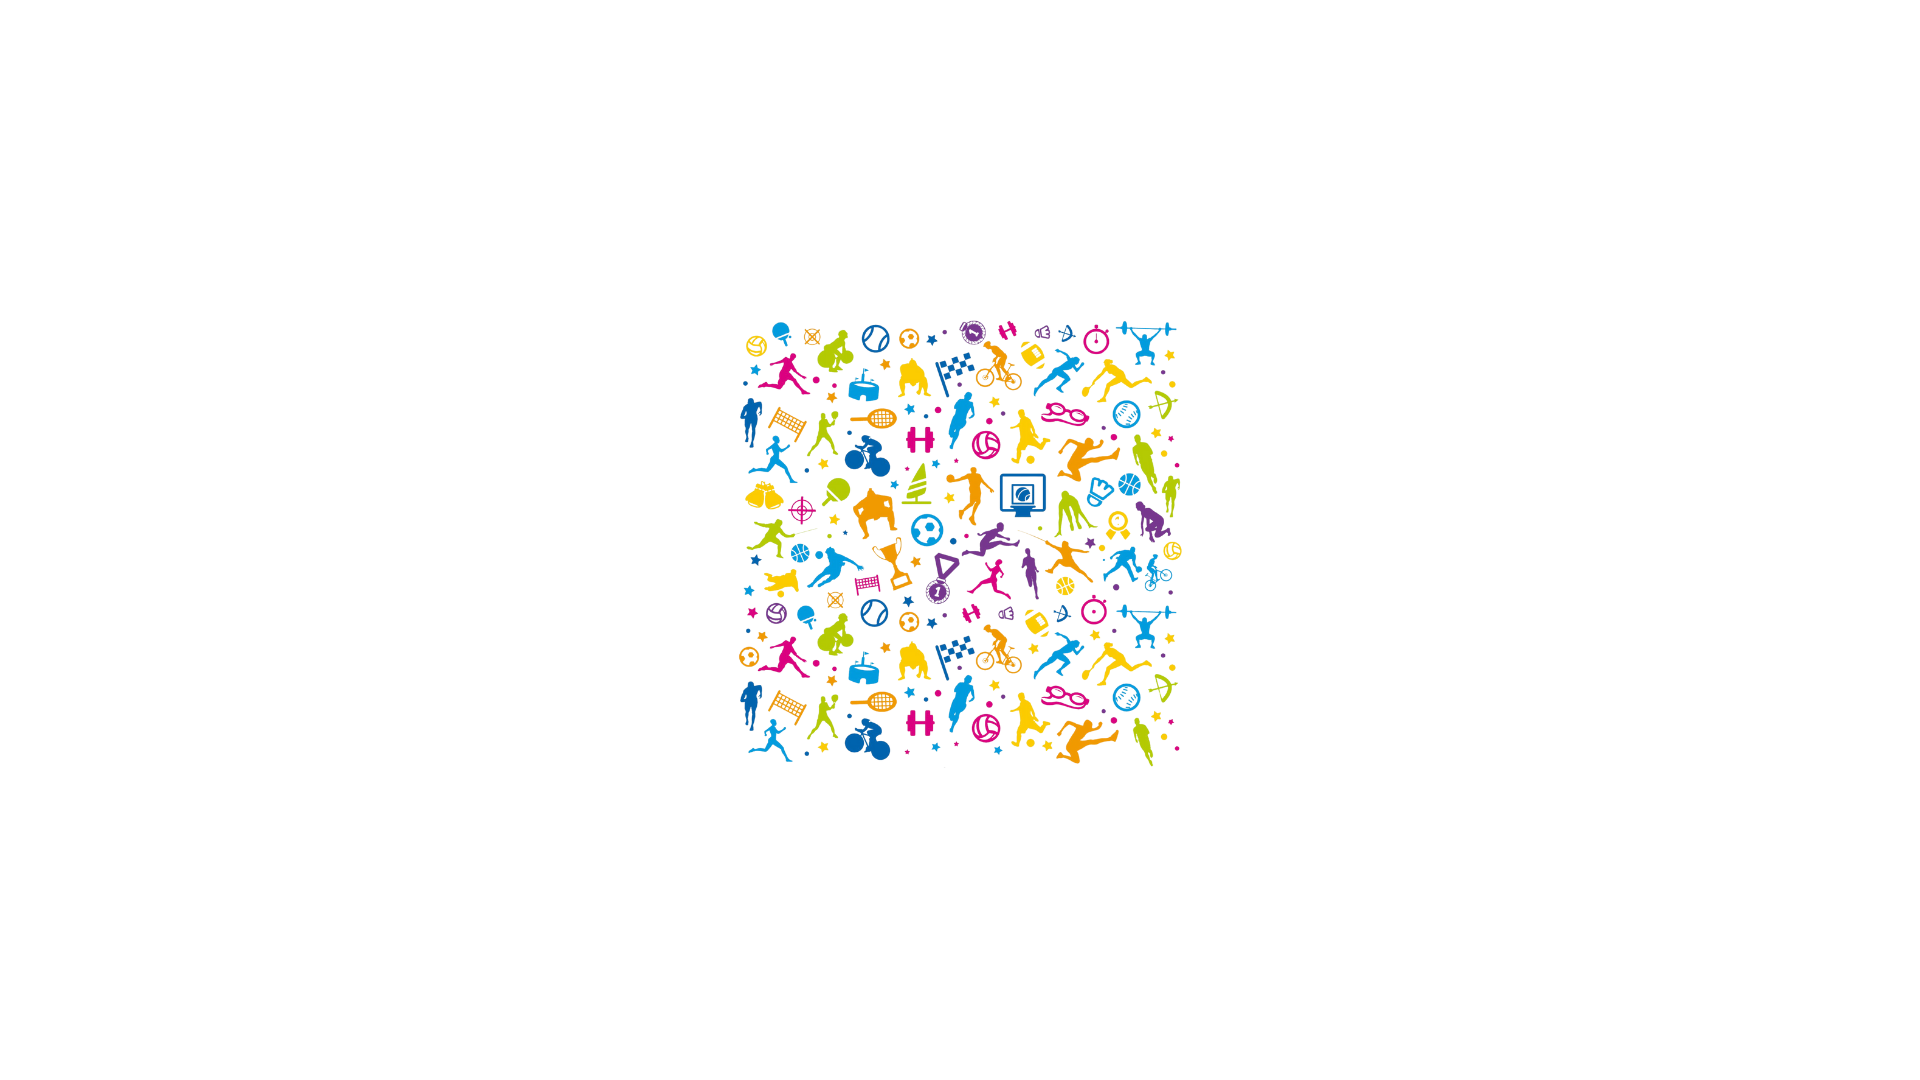
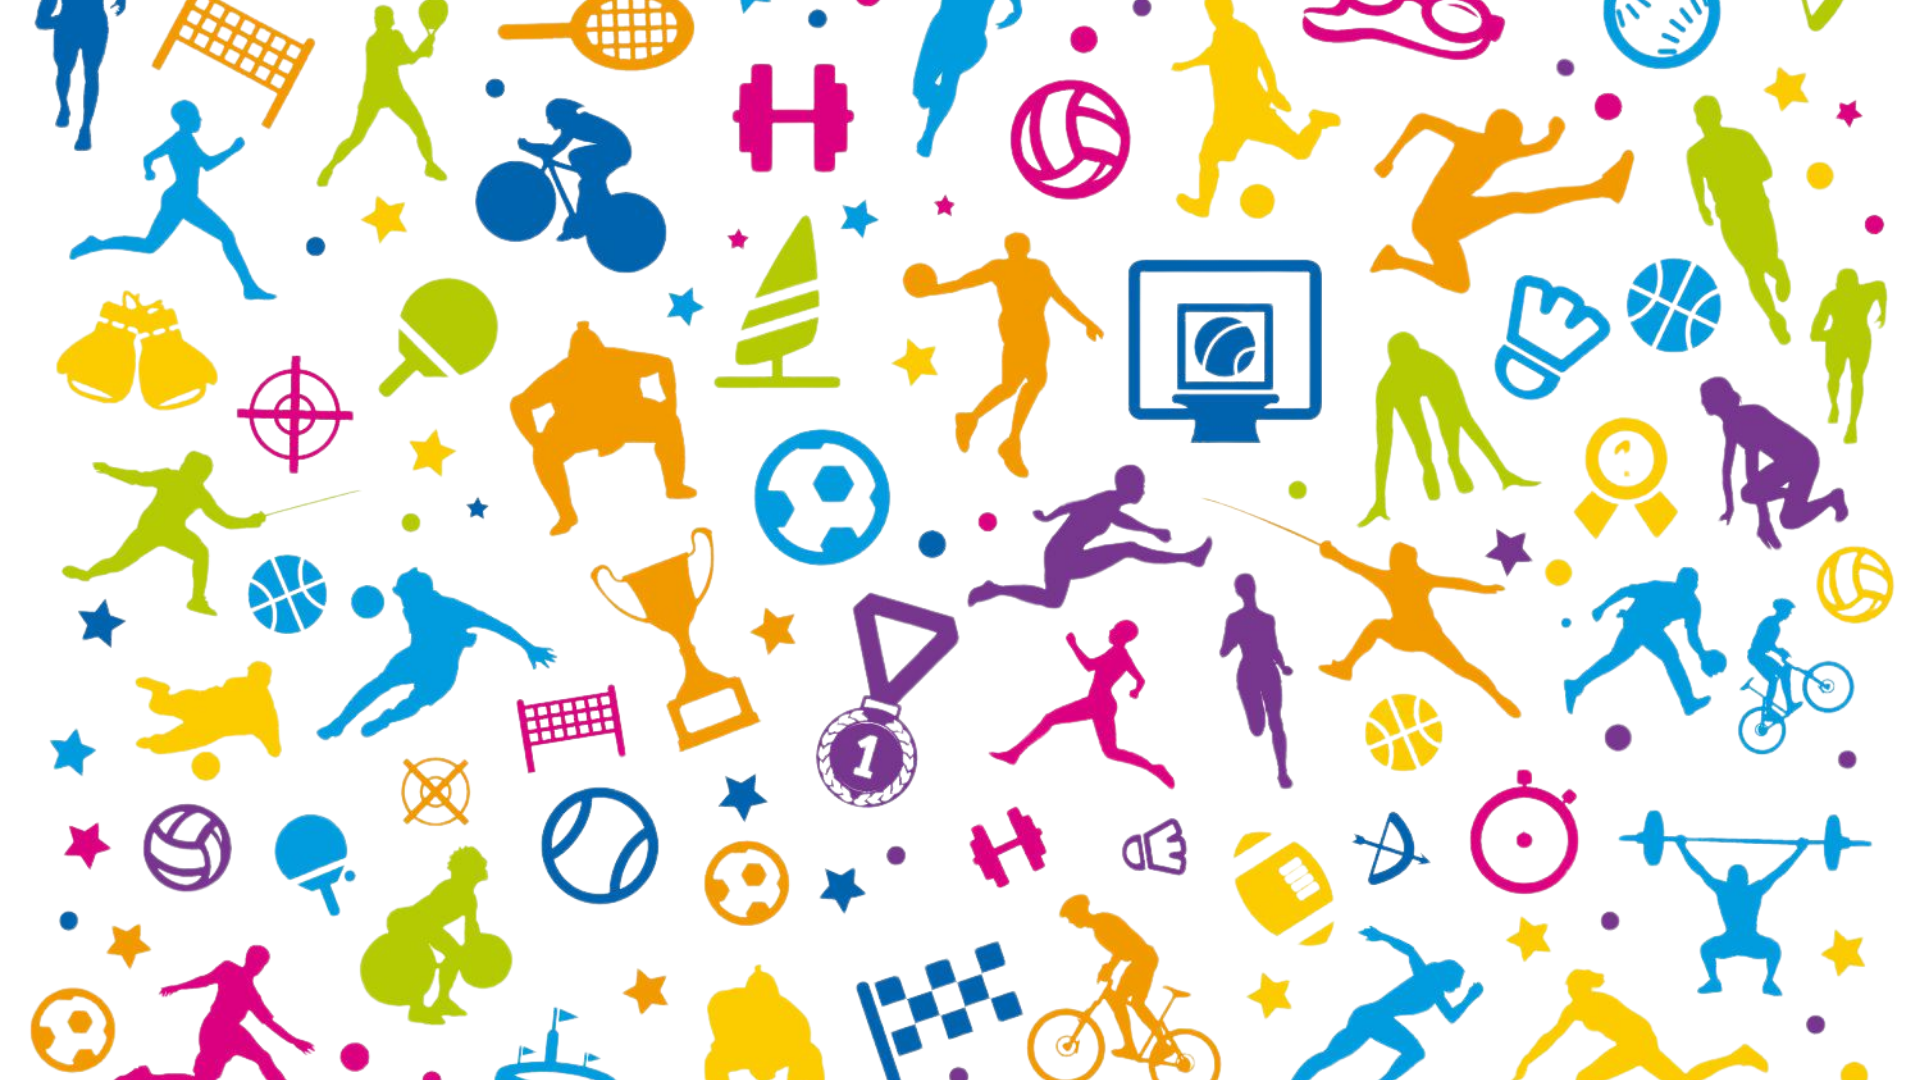
Preparação para novos estilos de plano de fundo
Adicionadas seções comentadas no `site.css` para propriedades de
plano de fundo do `body` e da classe `.Principal`. Essas mudanças
indicam preparação para futuros estilos, mas estão desativadas
por enquanto.

diff --git a/InterClasses/wwwroot/css/site.css b/InterClasses/wwwroot/css/site.css
@@ -19,9 +19,13 @@ html {
 
 body {
     margin-bottom: 60px;
+    /*    background-size: cover;
+    background-image: url('../img/bg.png');*/
 }
 
 /*.Principal {
+    width: 100%;
+    height: 100vh;
     background-image: url('../img/bg.png');
     background-size: cover;
 }*/
